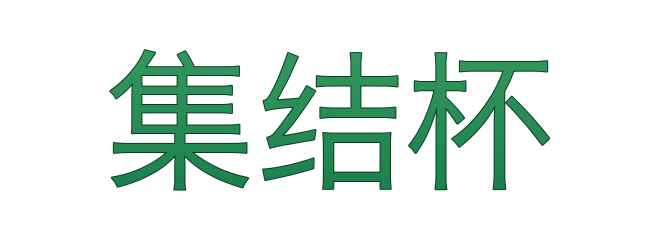
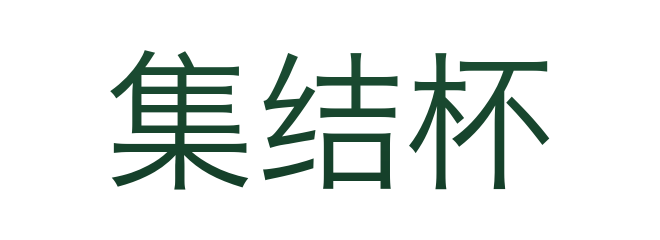
集结杯前端 v2 设计债收尾：light 标题色对齐 design round-2 + design/v2 归档入库
- light 标题色微调：sc2-light #123a26(深墨绿)、metal-light #2f2105(深棕金+浅金描边)，
  对齐 design v2 round-2 精确主色(替代初版偏亮值)；重生成 brand/jjb-title-{sc2,metal}-light.png
- design/v2/ 归档入库：README(v2设计基线规格+6套标题色表+落地映射，诚实标注原始 handoff 已 404 失效)
  + gen-titles.py(6 套标题 PIL 生成脚本，便于后续改色重出)

Changed region(s): [[0.1515, 0.2042, 0.8485, 0.8167]]

diff --git a/design/v2/gen-titles.py b/design/v2/gen-titles.py
@@ -1,0 +1,56 @@
+#!/usr/bin/env python3
+# 出 6 套「集结杯」标题艺术字图，对齐 design v2 皮肤专属质感 × 明暗。robust 字体 fallback。
+from PIL import Image, ImageDraw, ImageFont, ImageFilter
+
+OUT = "/Users/bytedance/项目/jijiebei/assets/resources/images/brand"
+TEXT = "集结杯"
+W, H, FS = 660, 240, 150
+
+SERIF = ["/System/Library/Fonts/Supplemental/Songti.ttc"]                       # 宋体衬线 → metal
+SANS = ["/System/Library/Fonts/Hiragino Sans GB.ttc",
+        "/System/Library/Fonts/STHeiti Medium.ttc",
+        "/System/Library/Fonts/Supplemental/Songti.ttc"]                        # 黑体 → sc2/minimal
+
+def lf(cands):
+    for p in cands:
+        try:
+            return ImageFont.truetype(p, FS)
+        except Exception:
+            continue
+    raise Exception("no usable font in " + str(cands))
+
+def vgrad(top, bot):
+    g = Image.new("RGBA", (W, H)); d = ImageDraw.Draw(g)
+    for y in range(H):
+        t = y / H
+        d.line([(0, y), (W, y)], fill=(
+            int(top[0]+(bot[0]-top[0])*t), int(top[1]+(bot[1]-top[1])*t), int(top[2]+(bot[2]-top[2])*t), 255))
+    return g
+
+def make(name, cands, top, bot, stroke, sw, shadow):
+    f = lf(cands)
+    mask = Image.new("L", (W, H), 0); md = ImageDraw.Draw(mask)
+    bbox = md.textbbox((0, 0), TEXT, font=f); tw, th = bbox[2]-bbox[0], bbox[3]-bbox[1]
+    x, y = (W-tw)//2 - bbox[0], (H-th)//2 - bbox[1]
+    md.text((x, y), TEXT, font=f, fill=255)
+    base = Image.new("RGBA", (W, H), (0, 0, 0, 0))
+    if shadow:
+        sh = Image.new("RGBA", (W, H), (0, 0, 0, 0)); ImageDraw.Draw(sh).text((x, y+3), TEXT, font=f, fill=(0, 0, 0, 150))
+        base = Image.alpha_composite(base, sh.filter(ImageFilter.GaussianBlur(5)))
+    if stroke and sw > 0:
+        st = Image.new("RGBA", (W, H), (0, 0, 0, 0)); ImageDraw.Draw(st).text((x, y), TEXT, font=f, fill=stroke+(255,), stroke_width=sw, stroke_fill=stroke+(255,))
+        base = Image.alpha_composite(base, st)
+    grad = vgrad(top, bot); grad.putalpha(mask)
+    base = Image.alpha_composite(base, grad)
+    base.save(OUT + "/jjb-title-" + name + ".png"); print(name, "ok")
+
+CONFIGS = [
+    ("metal-dark",    SERIF, (240,216,144), (199,154,62),  (58,44,16),     3, True),
+    ("metal-light",   SERIF, (98,70,18),    (47,33,5),     (214,182,120),  1, False),
+    ("sc2-dark",      SANS,  (120,230,160), (70,200,130),  None,           0, True),
+    ("sc2-light",     SANS,  (30,82,54),    (18,58,38),    None,           0, False),
+    ("minimal-dark",  SANS,  (241,243,246), (205,210,218), None,           0, False),
+    ("minimal-light", SANS,  (32,38,48),    (16,20,28),    None,           0, False),
+]
+for c in CONFIGS:
+    make(*c)

diff --git a/design/v2/README.md b/design/v2/README.md
@@ -1,0 +1,47 @@
+# design/v2 — Claude Design v2 handoff 落地归档
+
+## ⚠️ 归档说明（诚实标注）
+
+v2 handoff 原始分享链接（`https://api.anthropic.com/v1/design/h/lVdPNi97VJD6lN1gp31__Q`）为**一次性链接，现已失效（404）**，落地时未存档原始导出（HTML/CSS/jsx/data）。
+
+本目录据 v2 **实际落地实现**重建设计基线（规格 + 落地映射 + 标题生成脚本），供对照 [v1](../v1/) 与后续改稿。**若需原始 web 稿**，请从 Claude Design 重新导出后替换本目录（流程见 [../README.md](../README.md)）。
+
+## v2 相对 v1 的设计变更（已落地 `assets/Script/jjbDesign/`）
+
+### 1. 标题艺术字「集结杯」6 套（皮肤 × 明暗）
+PIL 垂直渐变（top→bot）+ 可选描边/阴影；生成脚本见本目录 [`gen-titles.py`](./gen-titles.py)。round-2 微调后精确色值：
+
+| 皮肤-明暗 | 主色 bot | top（高光） | 描边 | 字体 |
+|---|---|---|---|---|
+| metal-dark | `#c79a3e` | `#f0d890` | `#3a2c10` sw3 + 阴影 | 宋体衬线 |
+| **metal-light** | **`#2f2105`** | `#624612` | 浅金 `#d6b678` sw1 | 宋体衬线 |
+| sc2-dark | `#46c882` | `#78e6a0` | 无 + 阴影 | 黑体 |
+| **sc2-light** | **`#123a26`** | `#1e5236` | 无 | 黑体 |
+| minimal-dark | `#cdd2da` | `#f1f3f6` | 无 | 黑体 |
+| minimal-light | `#10141c` | `#202630` | 无 | 黑体 |
+
+落地：`assets/resources/images/brand/jjb-title-{style}-{mode}.png`；各屏按 `jjb-title-{style}-{mode}` 加载。
+
+### 2. 亮色 logo
+metal/sc2/minimal 各一张亮色版 `logo-cm-{style}-light`；`JJBData.markFor(style,mode)` 在 light 取亮色版。
+
+### 3. 网格 HUD 背景（弃 v1 写实大图）
+`JJBView.bg` 程序化：18 段渐变（bgA→bgB）+ 皮肤纹理（sc2 44px 网格 accent alpha15-20 / metal 118° 斜纹 / minimal 无）+ 顶部光晕（dark）+ 7 层暗角；**overscan 2000×1160 纯色底**盖住宽屏 canvas 在 1280×720 之外露出的原场景背景。
+
+### 4. 卡片/面板四角装饰
+`JJBView.panel`：metal 切角 12 / sc2 四角 L 刻线（14px，2px，accent）/ minimal 直角。
+
+### 5. 结算战绩卡放大
+rcard 96px + 左侧胜负色条（胜绿/带奖励蓝/失败红）+ map 248×64 + facs 46 + badge 22px/900。
+
+## 落地映射
+
+| 设计要素 | 落地文件 |
+|---|---|
+| 背景/卡片/刻线/切角 | `JJBView.ts`（bg / panel / cornerTicks / cutBox） |
+| 6 套 token（皮肤×明暗） | `JJBTheme.ts` |
+| 标题/logo 路径选择 | `JJBData.ts`（markFor） |
+| 各屏布局 | `JJBHome / JJBSelect / JJBBattle / JJBResult / JJBOverlay.ts` |
+| 素材 | `assets/resources/images/brand/` |
+
+提交：`78de115`（v2 落地：去旗标 + 6 标题 + 亮色 logo + 结算卡放大）、`d2262ee`（风格整改：网格 HUD + 四角刻线 + overscan）。